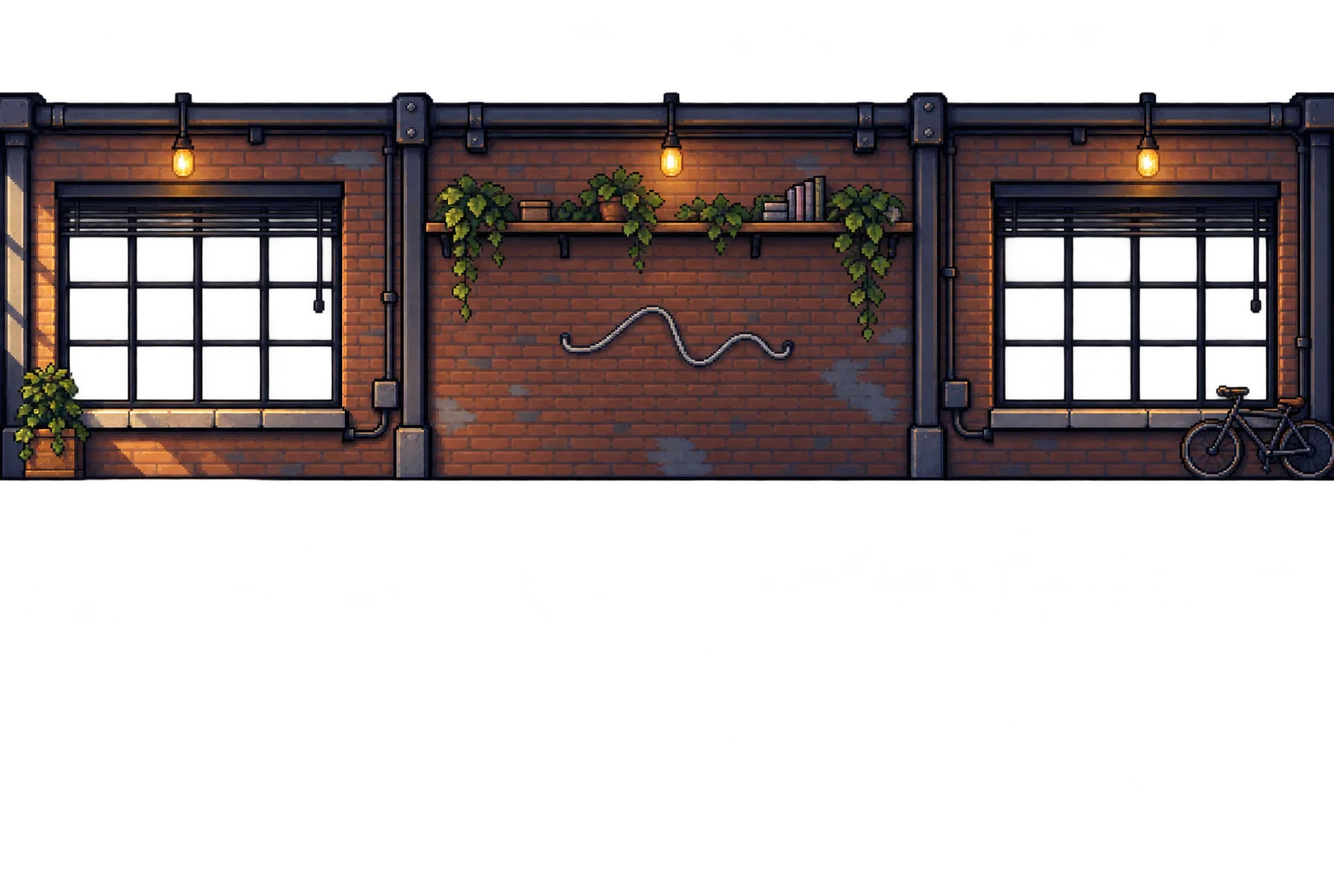
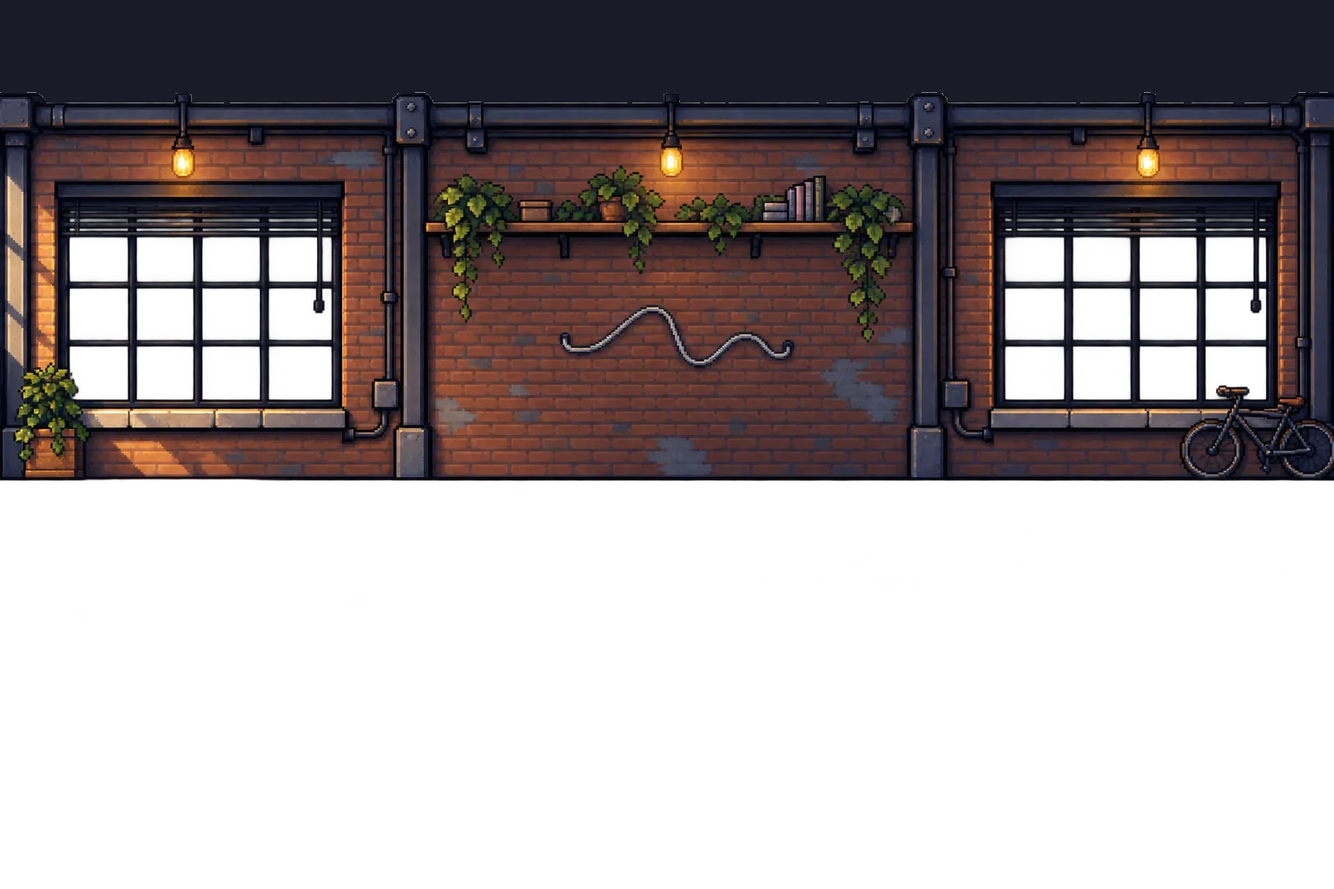
Every room has a ceiling: the band above a generated wall is filled, not sky
Checking the rooms in the browser showed the sky over every wall: ChatGPT leaves
the canvas above the wall empty (12-19% of the height), and at the floor's real
shape (824x600 on desktop, a narrow column on a phone) none of it is cropped, so
clouds hung over the paper office's drop ceiling. floor_art.py now fills that
band with the wall's own top surface at half brightness, so it reads as the
ceiling in shadow. The wall prompts ask for a wall that reaches the top edge.

Changed region(s): [[0.0, 0.0, 1.0, 0.125]]

diff --git a/frontend/scripts/floor_art.py b/frontend/scripts/floor_art.py
@@ -47,7 +47,10 @@ What this fixes or refuses, the same way agent_art.py does for the crew:
      is on the line; a floor that starts above the line is trimmed at it, and one
      that starts below is stretched up to it. Only an edge further off than
      that stops the run.
-  4. A sheet's frames are found by their own pixels, not by slicing in equal
+  4. The model also leaves the canvas above the wall empty, so the sky showed over
+     the room (clouds above the office's drop ceiling). That band is filled with
+     the wall's own top surface in shadow, so every room has a ceiling.
+  5. A sheet's frames are found by their own pixels, not by slicing in equal
      parts, and the count must match the prompt's grid. Each frame is re-anchored
      on its base (unless the prompt says `Anchor: none`), and every frame's base
      is checked against the line before anything is written.
@@ -84,6 +87,8 @@ STRAY = 0.01
 #: How far off the horizon a wall's foot or a floor's far edge may be drawn and
 #: still be seated on it, as a share of the height.
 SEAT = 0.06
+#: How dark the ceiling above a wall is, as a share of the wall's top surface.
+SHADE = 0.5
 #: Margin around a sheet's frames in each output cell, in output pixels.
 PAD = 4
 
@@ -193,6 +198,35 @@ def seat(im: Image.Image, layer: str, horizon: int, edge: Optional[int]) -> tupl
     return out, f"stretched {-off}px up to the horizon"
 
 
+def close_ceiling(im: Image.Image) -> tuple:
+    """(the wall with the empty band above it filled, how deep that band is at its
+    median). The fill is the median colour of the wall's top surface (a few rows in,
+    past its outline) at SHADE, so it reads as the ceiling in shadow."""
+    a = im.getchannel("A").load()
+    px = im.load()
+    W, H = im.size
+    tops = {}
+    for x in range(W):
+        for y in range(H):
+            if a[x, y] >= 128:
+                tops[x] = y
+                break
+    surface = sorted(
+        (px[x, t + d][:3] for x, t in tops.items() for d in range(6, 30, 4) if t + d < H and a[x, t + d] >= 128),
+        key=lambda c: 0.2126 * c[0] + 0.7152 * c[1] + 0.0722 * c[2],
+    )
+    if not surface:
+        return im, 0
+    shade = tuple(round(v * SHADE) for v in surface[len(surface) // 2]) + (255,)
+    out = im.copy()
+    po = out.load()
+    for x, t in tops.items():
+        for y in range(t):
+            po[x, y] = shade
+    depth = sorted(tops.values())[len(tops) // 2]
+    return out, depth
+
+
 def cut_layer(meta: dict) -> tuple:
     """(the layer, a note on how it was seated on the horizon, or "")."""
     prompt = meta["path"]
@@ -224,6 +258,10 @@ def cut_layer(meta: dict) -> tuple:
     if edge is not None and layer == "floor" and edge - horizon > round(H * SEAT):
         refuse(prompt, f"{src.name} starts at {edge}px, {edge - horizon}px below the horizon, so the sky shows above it; the floor must start at {horizon}px")
     im, seated = seat(im, layer, horizon, edge)
+    if layer == "wall":
+        im, depth = close_ceiling(im)
+        if depth:
+            seated = ", ".join(filter(None, [seated, f"ceiling closed over the top {depth}px"]))
     a = im.getchannel("A").load()
     spill = round(H * SPILL)
     if layer == "wall":

diff --git a/assets/prompts/paper/wall.md b/assets/prompts/paper/wall.md
@@ -14,7 +14,7 @@ The paper company room on the crew floor is three images stacked: sky, wall and 
 
 ## Prompt
 
-Pixel art for a 2D game, in the style of the attached character sprite: hand-placed pixels, dark outlines 2 to 3 pixels thick, flat colour areas with hue-shifted shading (shadows lean cool, highlights lean warm), no airbrushed gradients, no blur, no photographic texture, no depth of field. Light comes from the upper left. Use the attached character only as a reference for line weight, pixel size and how colour is shaded. Do not draw the character. Camera: straight on, facing the back wall of the room from a slightly raised eye level, about 15 degrees down, the same eye level as the attached character. One vanishing point, at the centre of the horizon line. Canvas: exactly 1536 x 1024 pixels, landscape. The horizon (the line where the back wall meets the floor) is level, at 553 pixels from the top: 54% of the height. This image is only the back wall, on a transparent background: a PNG with a real alpha channel, not a grey-and-white checkerboard drawn in. Everything below the horizon at 553 pixels is fully transparent. The glass of every window is fully transparent too, so the sky behind it shows through; frames, sills and blinds are opaque. Keep the wall plain and uncluttered from 30% to 70% of the width and from 12% to 40% of the height: the app puts a live status board there. Anything standing against the wall sits on the horizon line and stays in the outer quarter on each side. The back wall of a mid-size paper supply company's office, the beige, slightly worn kind. A drop ceiling across the top 8% with off-white tiles and recessed fluorescent panels; leave the panel slot from 8% to 24% of the width empty, because a flickering panel is placed there. Greige painted walls with a darker chair rail at about 40% of the height. Two wide windows with half-lowered off-white venetian blinds, at 3% to 21% and 79% to 97% of the width, 12% to 36% of the height; the glass between the slats is transparent. A cork board with plain pinned papers near the left window, a framed generic landscape print near the right one, a row of low beige filing cabinets at the far left and far right, and one water-stained ceiling tile. A grey-blue rubber cove base along the horizon. Keep the whole image dim and muted. Brightly coloured characters with dark outlines will stand in front of it, so the room has to be quieter than they are: low contrast, low saturation, nothing brighter than a soft mid-tone except small light sources. No people, no characters, no faces, no animals. No text, letters, numbers, logos or brand marks, no watermark and no signature anywhere in the image.
+Pixel art for a 2D game, in the style of the attached character sprite: hand-placed pixels, dark outlines 2 to 3 pixels thick, flat colour areas with hue-shifted shading (shadows lean cool, highlights lean warm), no airbrushed gradients, no blur, no photographic texture, no depth of field. Light comes from the upper left. Use the attached character only as a reference for line weight, pixel size and how colour is shaded. Do not draw the character. Camera: straight on, facing the back wall of the room from a slightly raised eye level, about 15 degrees down, the same eye level as the attached character. One vanishing point, at the centre of the horizon line. Canvas: exactly 1536 x 1024 pixels, landscape. The horizon (the line where the back wall meets the floor) is level, at 553 pixels from the top: 54% of the height. This image is only the back wall, on a transparent background: a PNG with a real alpha channel, not a grey-and-white checkerboard drawn in. Everything below the horizon at 553 pixels is fully transparent. The wall itself fills the canvas from the very top edge down to the horizon: nothing above it is transparent, so no sky shows over the room. The glass of every window is fully transparent too, so the sky behind it shows through; frames, sills and blinds are opaque. Keep the wall plain and uncluttered from 30% to 70% of the width and from 12% to 40% of the height: the app puts a live status board there. Anything standing against the wall sits on the horizon line and stays in the outer quarter on each side. The back wall of a mid-size paper supply company's office, the beige, slightly worn kind. A drop ceiling across the top 8% with off-white tiles and recessed fluorescent panels; leave the panel slot from 8% to 24% of the width empty, because a flickering panel is placed there. Greige painted walls with a darker chair rail at about 40% of the height. Two wide windows with half-lowered off-white venetian blinds, at 3% to 21% and 79% to 97% of the width, 12% to 36% of the height; the glass between the slats is transparent. A cork board with plain pinned papers near the left window, a framed generic landscape print near the right one, a row of low beige filing cabinets at the far left and far right, and one water-stained ceiling tile. A grey-blue rubber cove base along the horizon. Keep the whole image dim and muted. Brightly coloured characters with dark outlines will stand in front of it, so the room has to be quieter than they are: low contrast, low saturation, nothing brighter than a soft mid-tone except small light sources. No people, no characters, no faces, no animals. No text, letters, numbers, logos or brand marks, no watermark and no signature anywhere in the image.
 
 ## Before you drop it in
 
@@ -24,6 +24,7 @@ Pixel art for a 2D game, in the style of the attached character sprite: hand-pla
 - [ ] No people, no text or numbers, no logos, no watermark.
 - [ ] Darker and greyer than the character you attached, so the crew will read on top of it.
 - [ ] Below the wall line is transparent, and so is the glass in every window.
+- [ ] The wall reaches the top edge of the image; no sky above it.
 - [ ] The middle of the wall (30% to 70% across, 12% to 40% down) is plain, for the board.
 
 Save it as `assets/floor/paper/wall.png`, then run `python3 frontend/scripts/floor_art.py paper` from the repo root. The room shows up in the picker once its sky, wall and floor are all cut.

diff --git a/assets/prompts/night/wall.md b/assets/prompts/night/wall.md
@@ -14,7 +14,7 @@ The night shift room on the crew floor is three images stacked: sky, wall and fl
 
 ## Prompt
 
-Pixel art for a 2D game, in the style of the attached character sprite: hand-placed pixels, dark outlines 2 to 3 pixels thick, flat colour areas with hue-shifted shading (shadows lean cool, highlights lean warm), no airbrushed gradients, no blur, no photographic texture, no depth of field. Light comes from the upper left. Use the attached character only as a reference for line weight, pixel size and how colour is shaded. Do not draw the character. Camera: straight on, facing the back wall of the room from a slightly raised eye level, about 15 degrees down, the same eye level as the attached character. One vanishing point, at the centre of the horizon line. Canvas: exactly 1536 x 1024 pixels, landscape. The horizon (the line where the back wall meets the floor) is level, at 553 pixels from the top: 54% of the height. This image is only the back wall, on a transparent background: a PNG with a real alpha channel, not a grey-and-white checkerboard drawn in. Everything below the horizon at 553 pixels is fully transparent. The glass of every window is fully transparent too, so the sky behind it shows through; frames, sills and blinds are opaque. Keep the wall plain and uncluttered from 30% to 70% of the width and from 12% to 40% of the height: the app puts a live status board there. Anything standing against the wall sits on the horizon line and stays in the outer quarter on each side. The back wall of a software control room after hours. Dark blue-grey wall panels with thin vertical seams about every 70 pixels. A pipe run and a conduit along the very top. A cable tray across the wall at about 38% of the height. Two rectangular windows with dark steel frames and a cross-shaped mullion, at 3% to 19% and 81% to 97% of the width, 10% to 32% of the height. Two slatted ventilation grilles low on the wall near the left and right. A thin strip of amber and dark hazard stripes just above a dark skirting board along the horizon. A faint cool glow rising from the floor along the bottom of the wall. Leave the wall plain from 14% to 22% of the width between 30% and 54% of the height: a server rack stands there. Keep the whole image dim and muted. Brightly coloured characters with dark outlines will stand in front of it, so the room has to be quieter than they are: low contrast, low saturation, nothing brighter than a soft mid-tone except small light sources. No people, no characters, no faces, no animals. No text, letters, numbers, logos or brand marks, no watermark and no signature anywhere in the image.
+Pixel art for a 2D game, in the style of the attached character sprite: hand-placed pixels, dark outlines 2 to 3 pixels thick, flat colour areas with hue-shifted shading (shadows lean cool, highlights lean warm), no airbrushed gradients, no blur, no photographic texture, no depth of field. Light comes from the upper left. Use the attached character only as a reference for line weight, pixel size and how colour is shaded. Do not draw the character. Camera: straight on, facing the back wall of the room from a slightly raised eye level, about 15 degrees down, the same eye level as the attached character. One vanishing point, at the centre of the horizon line. Canvas: exactly 1536 x 1024 pixels, landscape. The horizon (the line where the back wall meets the floor) is level, at 553 pixels from the top: 54% of the height. This image is only the back wall, on a transparent background: a PNG with a real alpha channel, not a grey-and-white checkerboard drawn in. Everything below the horizon at 553 pixels is fully transparent. The wall itself fills the canvas from the very top edge down to the horizon: nothing above it is transparent, so no sky shows over the room. The glass of every window is fully transparent too, so the sky behind it shows through; frames, sills and blinds are opaque. Keep the wall plain and uncluttered from 30% to 70% of the width and from 12% to 40% of the height: the app puts a live status board there. Anything standing against the wall sits on the horizon line and stays in the outer quarter on each side. The back wall of a software control room after hours. Dark blue-grey wall panels with thin vertical seams about every 70 pixels. A pipe run and a conduit along the very top. A cable tray across the wall at about 38% of the height. Two rectangular windows with dark steel frames and a cross-shaped mullion, at 3% to 19% and 81% to 97% of the width, 10% to 32% of the height. Two slatted ventilation grilles low on the wall near the left and right. A thin strip of amber and dark hazard stripes just above a dark skirting board along the horizon. A faint cool glow rising from the floor along the bottom of the wall. Leave the wall plain from 14% to 22% of the width between 30% and 54% of the height: a server rack stands there. Keep the whole image dim and muted. Brightly coloured characters with dark outlines will stand in front of it, so the room has to be quieter than they are: low contrast, low saturation, nothing brighter than a soft mid-tone except small light sources. No people, no characters, no faces, no animals. No text, letters, numbers, logos or brand marks, no watermark and no signature anywhere in the image.
 
 ## Before you drop it in
 
@@ -24,6 +24,7 @@ Pixel art for a 2D game, in the style of the attached character sprite: hand-pla
 - [ ] No people, no text or numbers, no logos, no watermark.
 - [ ] Darker and greyer than the character you attached, so the crew will read on top of it.
 - [ ] Below the wall line is transparent, and so is the glass in every window.
+- [ ] The wall reaches the top edge of the image; no sky above it.
 - [ ] The middle of the wall (30% to 70% across, 12% to 40% down) is plain, for the board.
 
 Save it as `assets/floor/night/wall.png`, then run `python3 frontend/scripts/floor_art.py night` from the repo root. The room shows up in the picker once its sky, wall and floor are all cut.

diff --git a/assets/prompts/loft/wall.md b/assets/prompts/loft/wall.md
@@ -14,7 +14,7 @@ The startup loft room on the crew floor is three images stacked: sky, wall and f
 
 ## Prompt
 
-Pixel art for a 2D game, in the style of the attached character sprite: hand-placed pixels, dark outlines 2 to 3 pixels thick, flat colour areas with hue-shifted shading (shadows lean cool, highlights lean warm), no airbrushed gradients, no blur, no photographic texture, no depth of field. Light comes from the upper left. Use the attached character only as a reference for line weight, pixel size and how colour is shaded. Do not draw the character. Camera: straight on, facing the back wall of the room from a slightly raised eye level, about 15 degrees down, the same eye level as the attached character. One vanishing point, at the centre of the horizon line. Canvas: exactly 1536 x 1024 pixels, landscape. The horizon (the line where the back wall meets the floor) is level, at 553 pixels from the top: 54% of the height. This image is only the back wall, on a transparent background: a PNG with a real alpha channel, not a grey-and-white checkerboard drawn in. Everything below the horizon at 553 pixels is fully transparent. The glass of every window is fully transparent too, so the sky behind it shows through; frames, sills and blinds are opaque. Keep the wall plain and uncluttered from 30% to 70% of the width and from 12% to 40% of the height: the app puts a live status board there. Anything standing against the wall sits on the horizon line and stays in the outer quarter on each side. The back wall of a converted warehouse loft used by a small software startup. Exposed brick in a muted red-brown with the mortar lines drawn in. Grey ductwork and a few bare bulbs hanging on cords near the top. Two tall black steel-framed factory windows with a grid of small panes, at 4% to 24% and 76% to 96% of the width, 8% to 42% of the height. A long wooden shelf with trailing plants above the middle, an unlit neon tube bent into an abstract wave (not letters) on the brick, and a bike leaning against the wall at the far right. Daylight comes in from the left window. Keep the whole image dim and muted. Brightly coloured characters with dark outlines will stand in front of it, so the room has to be quieter than they are: low contrast, low saturation, nothing brighter than a soft mid-tone except small light sources. No people, no characters, no faces, no animals. No text, letters, numbers, logos or brand marks, no watermark and no signature anywhere in the image.
+Pixel art for a 2D game, in the style of the attached character sprite: hand-placed pixels, dark outlines 2 to 3 pixels thick, flat colour areas with hue-shifted shading (shadows lean cool, highlights lean warm), no airbrushed gradients, no blur, no photographic texture, no depth of field. Light comes from the upper left. Use the attached character only as a reference for line weight, pixel size and how colour is shaded. Do not draw the character. Camera: straight on, facing the back wall of the room from a slightly raised eye level, about 15 degrees down, the same eye level as the attached character. One vanishing point, at the centre of the horizon line. Canvas: exactly 1536 x 1024 pixels, landscape. The horizon (the line where the back wall meets the floor) is level, at 553 pixels from the top: 54% of the height. This image is only the back wall, on a transparent background: a PNG with a real alpha channel, not a grey-and-white checkerboard drawn in. Everything below the horizon at 553 pixels is fully transparent. The wall itself fills the canvas from the very top edge down to the horizon: nothing above it is transparent, so no sky shows over the room. The glass of every window is fully transparent too, so the sky behind it shows through; frames, sills and blinds are opaque. Keep the wall plain and uncluttered from 30% to 70% of the width and from 12% to 40% of the height: the app puts a live status board there. Anything standing against the wall sits on the horizon line and stays in the outer quarter on each side. The back wall of a converted warehouse loft used by a small software startup. Exposed brick in a muted red-brown with the mortar lines drawn in. Grey ductwork and a few bare bulbs hanging on cords near the top. Two tall black steel-framed factory windows with a grid of small panes, at 4% to 24% and 76% to 96% of the width, 8% to 42% of the height. A long wooden shelf with trailing plants above the middle, an unlit neon tube bent into an abstract wave (not letters) on the brick, and a bike leaning against the wall at the far right. Daylight comes in from the left window. Keep the whole image dim and muted. Brightly coloured characters with dark outlines will stand in front of it, so the room has to be quieter than they are: low contrast, low saturation, nothing brighter than a soft mid-tone except small light sources. No people, no characters, no faces, no animals. No text, letters, numbers, logos or brand marks, no watermark and no signature anywhere in the image.
 
 ## Before you drop it in
 
@@ -24,6 +24,7 @@ Pixel art for a 2D game, in the style of the attached character sprite: hand-pla
 - [ ] No people, no text or numbers, no logos, no watermark.
 - [ ] Darker and greyer than the character you attached, so the crew will read on top of it.
 - [ ] Below the wall line is transparent, and so is the glass in every window.
+- [ ] The wall reaches the top edge of the image; no sky above it.
 - [ ] The middle of the wall (30% to 70% across, 12% to 40% down) is plain, for the board.
 
 Save it as `assets/floor/loft/wall.png`, then run `python3 frontend/scripts/floor_art.py loft` from the repo root. The room shows up in the picker once its sky, wall and floor are all cut.

diff --git a/assets/prompts/station/wall.md b/assets/prompts/station/wall.md
@@ -14,7 +14,7 @@ The orbital station room on the crew floor is three images stacked: sky, wall an
 
 ## Prompt
 
-Pixel art for a 2D game, in the style of the attached character sprite: hand-placed pixels, dark outlines 2 to 3 pixels thick, flat colour areas with hue-shifted shading (shadows lean cool, highlights lean warm), no airbrushed gradients, no blur, no photographic texture, no depth of field. Light comes from the upper left. Use the attached character only as a reference for line weight, pixel size and how colour is shaded. Do not draw the character. Camera: straight on, facing the back wall of the room from a slightly raised eye level, about 15 degrees down, the same eye level as the attached character. One vanishing point, at the centre of the horizon line. Canvas: exactly 1536 x 1024 pixels, landscape. The horizon (the line where the back wall meets the floor) is level, at 553 pixels from the top: 54% of the height. This image is only the back wall, on a transparent background: a PNG with a real alpha channel, not a grey-and-white checkerboard drawn in. Everything below the horizon at 553 pixels is fully transparent. The glass of every window is fully transparent too, so the sky behind it shows through; frames, sills and blinds are opaque. Keep the wall plain and uncluttered from 30% to 70% of the width and from 12% to 40% of the height: the app puts a live status board there. Anything standing against the wall sits on the horizon line and stays in the outer quarter on each side. The back wall of a ring module on an orbital station. Off-white and pale grey curved wall panels with rounded corners and recessed seams, a band of dim blue strip light at about 38% of the height, handrails, bundles of cable clipped along the top, two large rounded observation ports at 4% to 22% and 78% to 96% of the width, 10% to 34% of the height, and a closed round hatch at the far right edge. Small panel labels are blank rectangles. Leave the wall plain from 40% to 54% of the height between 40% and 60% of the width: a console stands there. Keep the whole image dim and muted. Brightly coloured characters with dark outlines will stand in front of it, so the room has to be quieter than they are: low contrast, low saturation, nothing brighter than a soft mid-tone except small light sources. No people, no characters, no faces, no animals. No text, letters, numbers, logos or brand marks, no watermark and no signature anywhere in the image.
+Pixel art for a 2D game, in the style of the attached character sprite: hand-placed pixels, dark outlines 2 to 3 pixels thick, flat colour areas with hue-shifted shading (shadows lean cool, highlights lean warm), no airbrushed gradients, no blur, no photographic texture, no depth of field. Light comes from the upper left. Use the attached character only as a reference for line weight, pixel size and how colour is shaded. Do not draw the character. Camera: straight on, facing the back wall of the room from a slightly raised eye level, about 15 degrees down, the same eye level as the attached character. One vanishing point, at the centre of the horizon line. Canvas: exactly 1536 x 1024 pixels, landscape. The horizon (the line where the back wall meets the floor) is level, at 553 pixels from the top: 54% of the height. This image is only the back wall, on a transparent background: a PNG with a real alpha channel, not a grey-and-white checkerboard drawn in. Everything below the horizon at 553 pixels is fully transparent. The wall itself fills the canvas from the very top edge down to the horizon: nothing above it is transparent, so no sky shows over the room. The glass of every window is fully transparent too, so the sky behind it shows through; frames, sills and blinds are opaque. Keep the wall plain and uncluttered from 30% to 70% of the width and from 12% to 40% of the height: the app puts a live status board there. Anything standing against the wall sits on the horizon line and stays in the outer quarter on each side. The back wall of a ring module on an orbital station. Off-white and pale grey curved wall panels with rounded corners and recessed seams, a band of dim blue strip light at about 38% of the height, handrails, bundles of cable clipped along the top, two large rounded observation ports at 4% to 22% and 78% to 96% of the width, 10% to 34% of the height, and a closed round hatch at the far right edge. Small panel labels are blank rectangles. Leave the wall plain from 40% to 54% of the height between 40% and 60% of the width: a console stands there. Keep the whole image dim and muted. Brightly coloured characters with dark outlines will stand in front of it, so the room has to be quieter than they are: low contrast, low saturation, nothing brighter than a soft mid-tone except small light sources. No people, no characters, no faces, no animals. No text, letters, numbers, logos or brand marks, no watermark and no signature anywhere in the image.
 
 ## Before you drop it in
 
@@ -24,6 +24,7 @@ Pixel art for a 2D game, in the style of the attached character sprite: hand-pla
 - [ ] No people, no text or numbers, no logos, no watermark.
 - [ ] Darker and greyer than the character you attached, so the crew will read on top of it.
 - [ ] Below the wall line is transparent, and so is the glass in every window.
+- [ ] The wall reaches the top edge of the image; no sky above it.
 - [ ] The middle of the wall (30% to 70% across, 12% to 40% down) is plain, for the board.
 
 Save it as `assets/floor/station/wall.png`, then run `python3 frontend/scripts/floor_art.py station` from the repo root. The room shows up in the picker once its sky, wall and floor are all cut.

diff --git a/assets/prompts/loft/wall-dark.md b/assets/prompts/loft/wall-dark.md
@@ -15,7 +15,7 @@ The startup loft room on the crew floor is three images stacked: sky, wall and f
 
 ## Prompt
 
-Pixel art for a 2D game, in the style of the attached character sprite: hand-placed pixels, dark outlines 2 to 3 pixels thick, flat colour areas with hue-shifted shading (shadows lean cool, highlights lean warm), no airbrushed gradients, no blur, no photographic texture, no depth of field. Light comes from the upper left. Use the attached character only as a reference for line weight, pixel size and how colour is shaded. Do not draw the character. Camera: straight on, facing the back wall of the room from a slightly raised eye level, about 15 degrees down, the same eye level as the attached character. One vanishing point, at the centre of the horizon line. Canvas: exactly 1536 x 1024 pixels, landscape. The horizon (the line where the back wall meets the floor) is level, at 553 pixels from the top: 54% of the height. This image is only the back wall, on a transparent background: a PNG with a real alpha channel, not a grey-and-white checkerboard drawn in. Everything below the horizon at 553 pixels is fully transparent. The glass of every window is fully transparent too, so the sky behind it shows through; frames, sills and blinds are opaque. Keep the wall plain and uncluttered from 30% to 70% of the width and from 12% to 40% of the height: the app puts a live status board there. Anything standing against the wall sits on the horizon line and stays in the outer quarter on each side. Exactly the same wall at night, with the same layout and the windows in the same place: 4% to 24% and 76% to 96% of the width, 8% to 42% of the height. The hanging bulbs are lit a warm yellow, the neon wave glows a soft pink, and the brick is in shadow with a warm pool of light under each bulb. Keep the whole image dim and muted. Brightly coloured characters with dark outlines will stand in front of it, so the room has to be quieter than they are: low contrast, low saturation, nothing brighter than a soft mid-tone except small light sources. No people, no characters, no faces, no animals. No text, letters, numbers, logos or brand marks, no watermark and no signature anywhere in the image.
+Pixel art for a 2D game, in the style of the attached character sprite: hand-placed pixels, dark outlines 2 to 3 pixels thick, flat colour areas with hue-shifted shading (shadows lean cool, highlights lean warm), no airbrushed gradients, no blur, no photographic texture, no depth of field. Light comes from the upper left. Use the attached character only as a reference for line weight, pixel size and how colour is shaded. Do not draw the character. Camera: straight on, facing the back wall of the room from a slightly raised eye level, about 15 degrees down, the same eye level as the attached character. One vanishing point, at the centre of the horizon line. Canvas: exactly 1536 x 1024 pixels, landscape. The horizon (the line where the back wall meets the floor) is level, at 553 pixels from the top: 54% of the height. This image is only the back wall, on a transparent background: a PNG with a real alpha channel, not a grey-and-white checkerboard drawn in. Everything below the horizon at 553 pixels is fully transparent. The wall itself fills the canvas from the very top edge down to the horizon: nothing above it is transparent, so no sky shows over the room. The glass of every window is fully transparent too, so the sky behind it shows through; frames, sills and blinds are opaque. Keep the wall plain and uncluttered from 30% to 70% of the width and from 12% to 40% of the height: the app puts a live status board there. Anything standing against the wall sits on the horizon line and stays in the outer quarter on each side. Exactly the same wall at night, with the same layout and the windows in the same place: 4% to 24% and 76% to 96% of the width, 8% to 42% of the height. The hanging bulbs are lit a warm yellow, the neon wave glows a soft pink, and the brick is in shadow with a warm pool of light under each bulb. Keep the whole image dim and muted. Brightly coloured characters with dark outlines will stand in front of it, so the room has to be quieter than they are: low contrast, low saturation, nothing brighter than a soft mid-tone except small light sources. No people, no characters, no faces, no animals. No text, letters, numbers, logos or brand marks, no watermark and no signature anywhere in the image.
 
 ## Before you drop it in
 
@@ -25,6 +25,7 @@ Pixel art for a 2D game, in the style of the attached character sprite: hand-pla
 - [ ] No people, no text or numbers, no logos, no watermark.
 - [ ] Darker and greyer than the character you attached, so the crew will read on top of it.
 - [ ] Below the wall line is transparent, and so is the glass in every window.
+- [ ] The wall reaches the top edge of the image; no sky above it.
 - [ ] The middle of the wall (30% to 70% across, 12% to 40% down) is plain, for the board.
 
 Save it as `assets/floor/loft/wall-dark.png`, then run `python3 frontend/scripts/floor_art.py loft` from the repo root. The room shows up in the picker once its sky, wall and floor are all cut.
